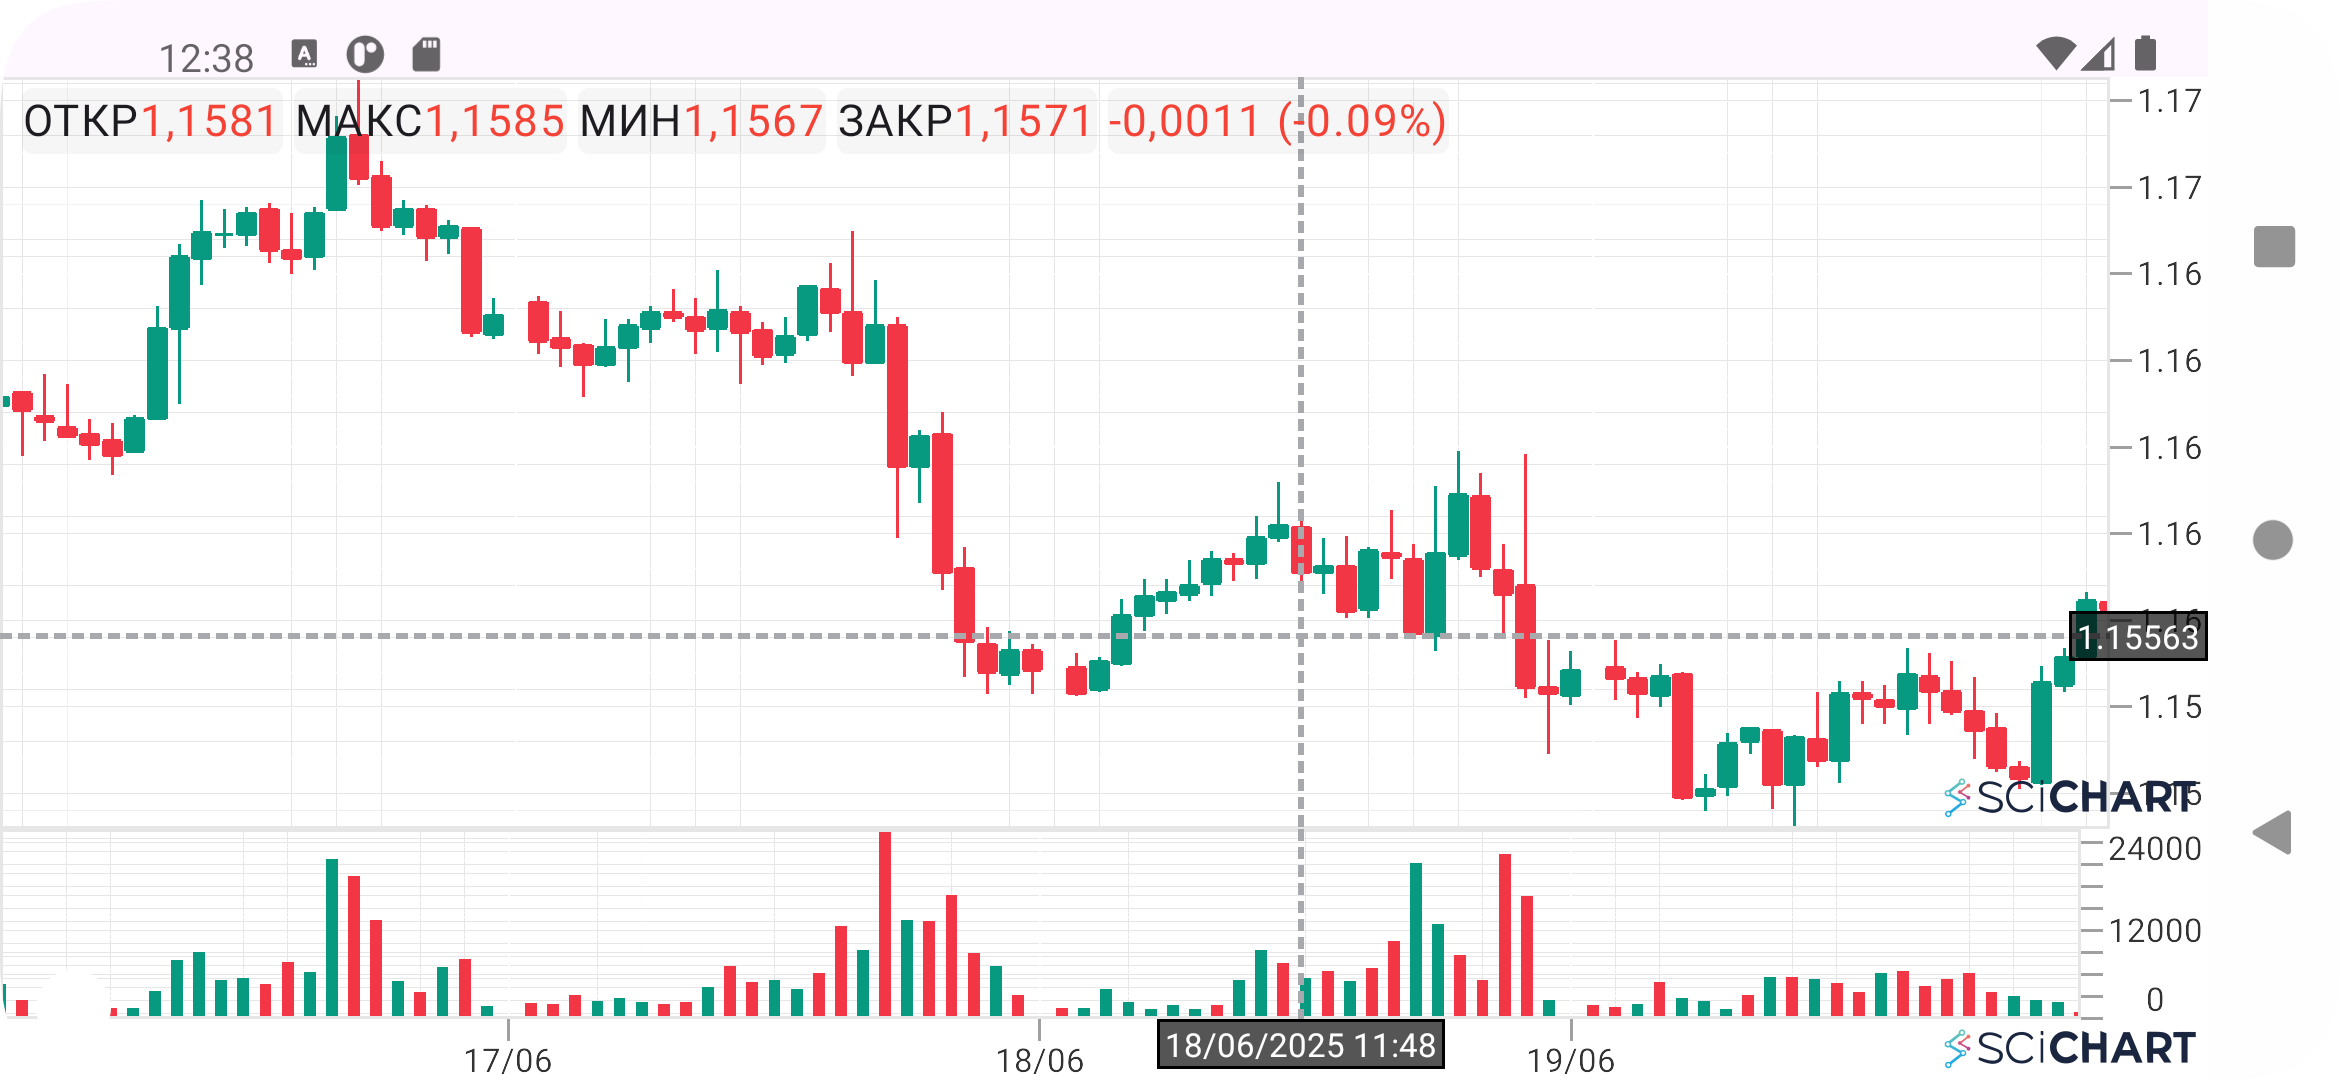
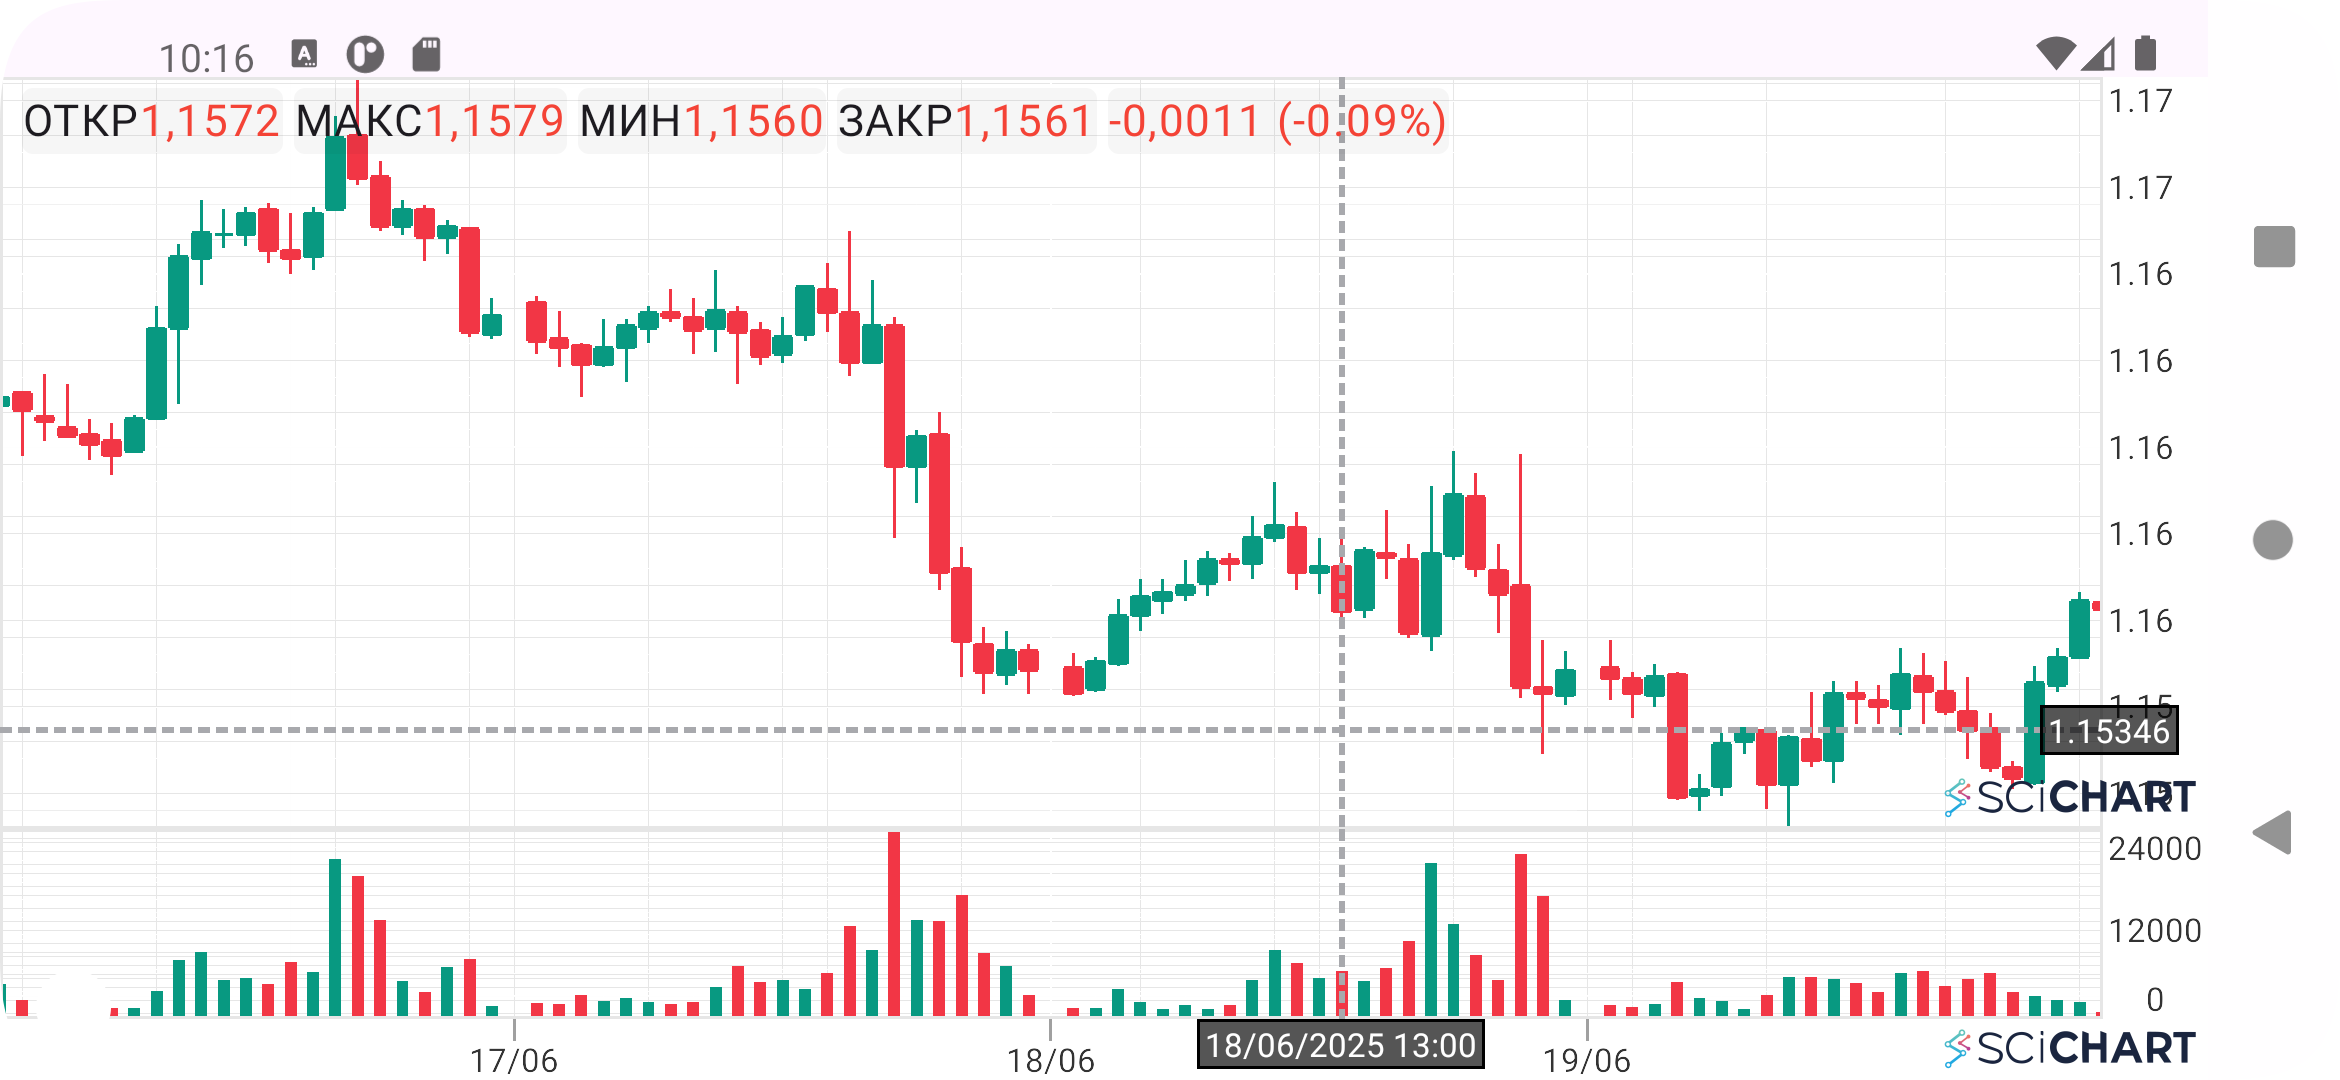
Fixed charts synchronization offset bug

diff --git a/app/src/main/kotlin/com/banana/finchart/ui/screen/main/MainScreen.kt b/app/src/main/kotlin/com/banana/finchart/ui/screen/main/MainScreen.kt
@@ -59,8 +59,10 @@ import com.scichart.charting.visuals.axes.DateAxis
 import com.scichart.charting.visuals.axes.NumericAxis
 import com.scichart.charting.visuals.renderableSeries.FastCandlestickRenderableSeries
 import com.scichart.charting.visuals.renderableSeries.FastColumnRenderableSeries
+import com.scichart.charting.visuals.synchronization.SciChartVerticalGroup
 import com.scichart.core.framework.UpdateSuspender
 import com.scichart.data.model.DateRange
+import com.scichart.data.model.DoubleRange
 import com.scichart.drawing.common.SolidPenStyle
 import java.util.Collections
 import java.util.Date
@@ -90,6 +92,8 @@ object MainScreen {
                 chartSnapshot!!.ohlcDataSet.find { it.timestampMs == crosshairState.timestampMs }
         }
 
+        val verticalChartsGroup = remember { SciChartVerticalGroup() }
+
         Column(modifier = modifier) {
             Box(
                 modifier = Modifier
@@ -99,7 +103,8 @@ object MainScreen {
                 CandleStickChart(
                     modifier = Modifier.fillMaxSize(),
                     visibleRange = xAxisSharedVisibleRange,
-                    mainViewModel = mainViewModel
+                    mainViewModel = mainViewModel,
+                    verticalGroup = verticalChartsGroup
                 )
 
                 if (cursorOhlc != null) {
@@ -116,7 +121,8 @@ object MainScreen {
                     .weight(1f)
                     .fillMaxWidth(),
                 visibleRange = xAxisSharedVisibleRange,
-                mainViewModel = mainViewModel
+                mainViewModel = mainViewModel,
+                verticalGroup = verticalChartsGroup
             )
         }
     }
@@ -196,13 +202,15 @@ object MainScreen {
     private fun CandleStickChart(
         modifier: Modifier,
         visibleRange: MutableState<DateRange>,
-        mainViewModel: MainScreenViewModel
+        mainViewModel: MainScreenViewModel,
+        verticalGroup: SciChartVerticalGroup
     ) {
         AndroidView(
             modifier = modifier,
             factory = { context ->
                 SciChartSurface(context).apply {
                     theme = R.style.ChartTheme
+                    verticalGroup.addSurfaceToGroup(this)
                 }
             },
             update = { surface ->
@@ -272,13 +280,15 @@ object MainScreen {
     private fun VolumeChart(
         modifier: Modifier,
         visibleRange: MutableState<DateRange>,
-        mainViewModel: MainScreenViewModel
+        mainViewModel: MainScreenViewModel,
+        verticalGroup: SciChartVerticalGroup
     ) {
         AndroidView(
             modifier = modifier,
             factory = { context ->
                 SciChartSurface(context).apply {
                     theme = R.style.ChartTheme
+                    verticalGroup.addSurfaceToGroup(this)
                 }
             },
             update = { surface ->
@@ -367,11 +377,14 @@ object MainScreen {
         xAxis.cursorTextFormatting = "dd/MM/yyyy HH:mm"
         xAxis.majorGridLineStyle = SolidPenStyle(ChartGridColor, true, 1f, null)
         xAxis.minorGridLineStyle = SolidPenStyle(ChartGridColor, true, 0.5f, null)
+        xAxis.growBy = DoubleRange(0.0, 0.0)
 
         yAxis.textFormatting = "0.##"
         yAxis.cursorTextFormatting = "0.#####"
         yAxis.majorGridLineStyle = SolidPenStyle(ChartGridColor, true, 1f, null)
         yAxis.minorGridLineStyle = SolidPenStyle(ChartGridColor, true, 0.5f, null)
+        yAxis.drawMajorTicks = false
+        yAxis.drawMinorTicks = false
     }
 
     @Composable
